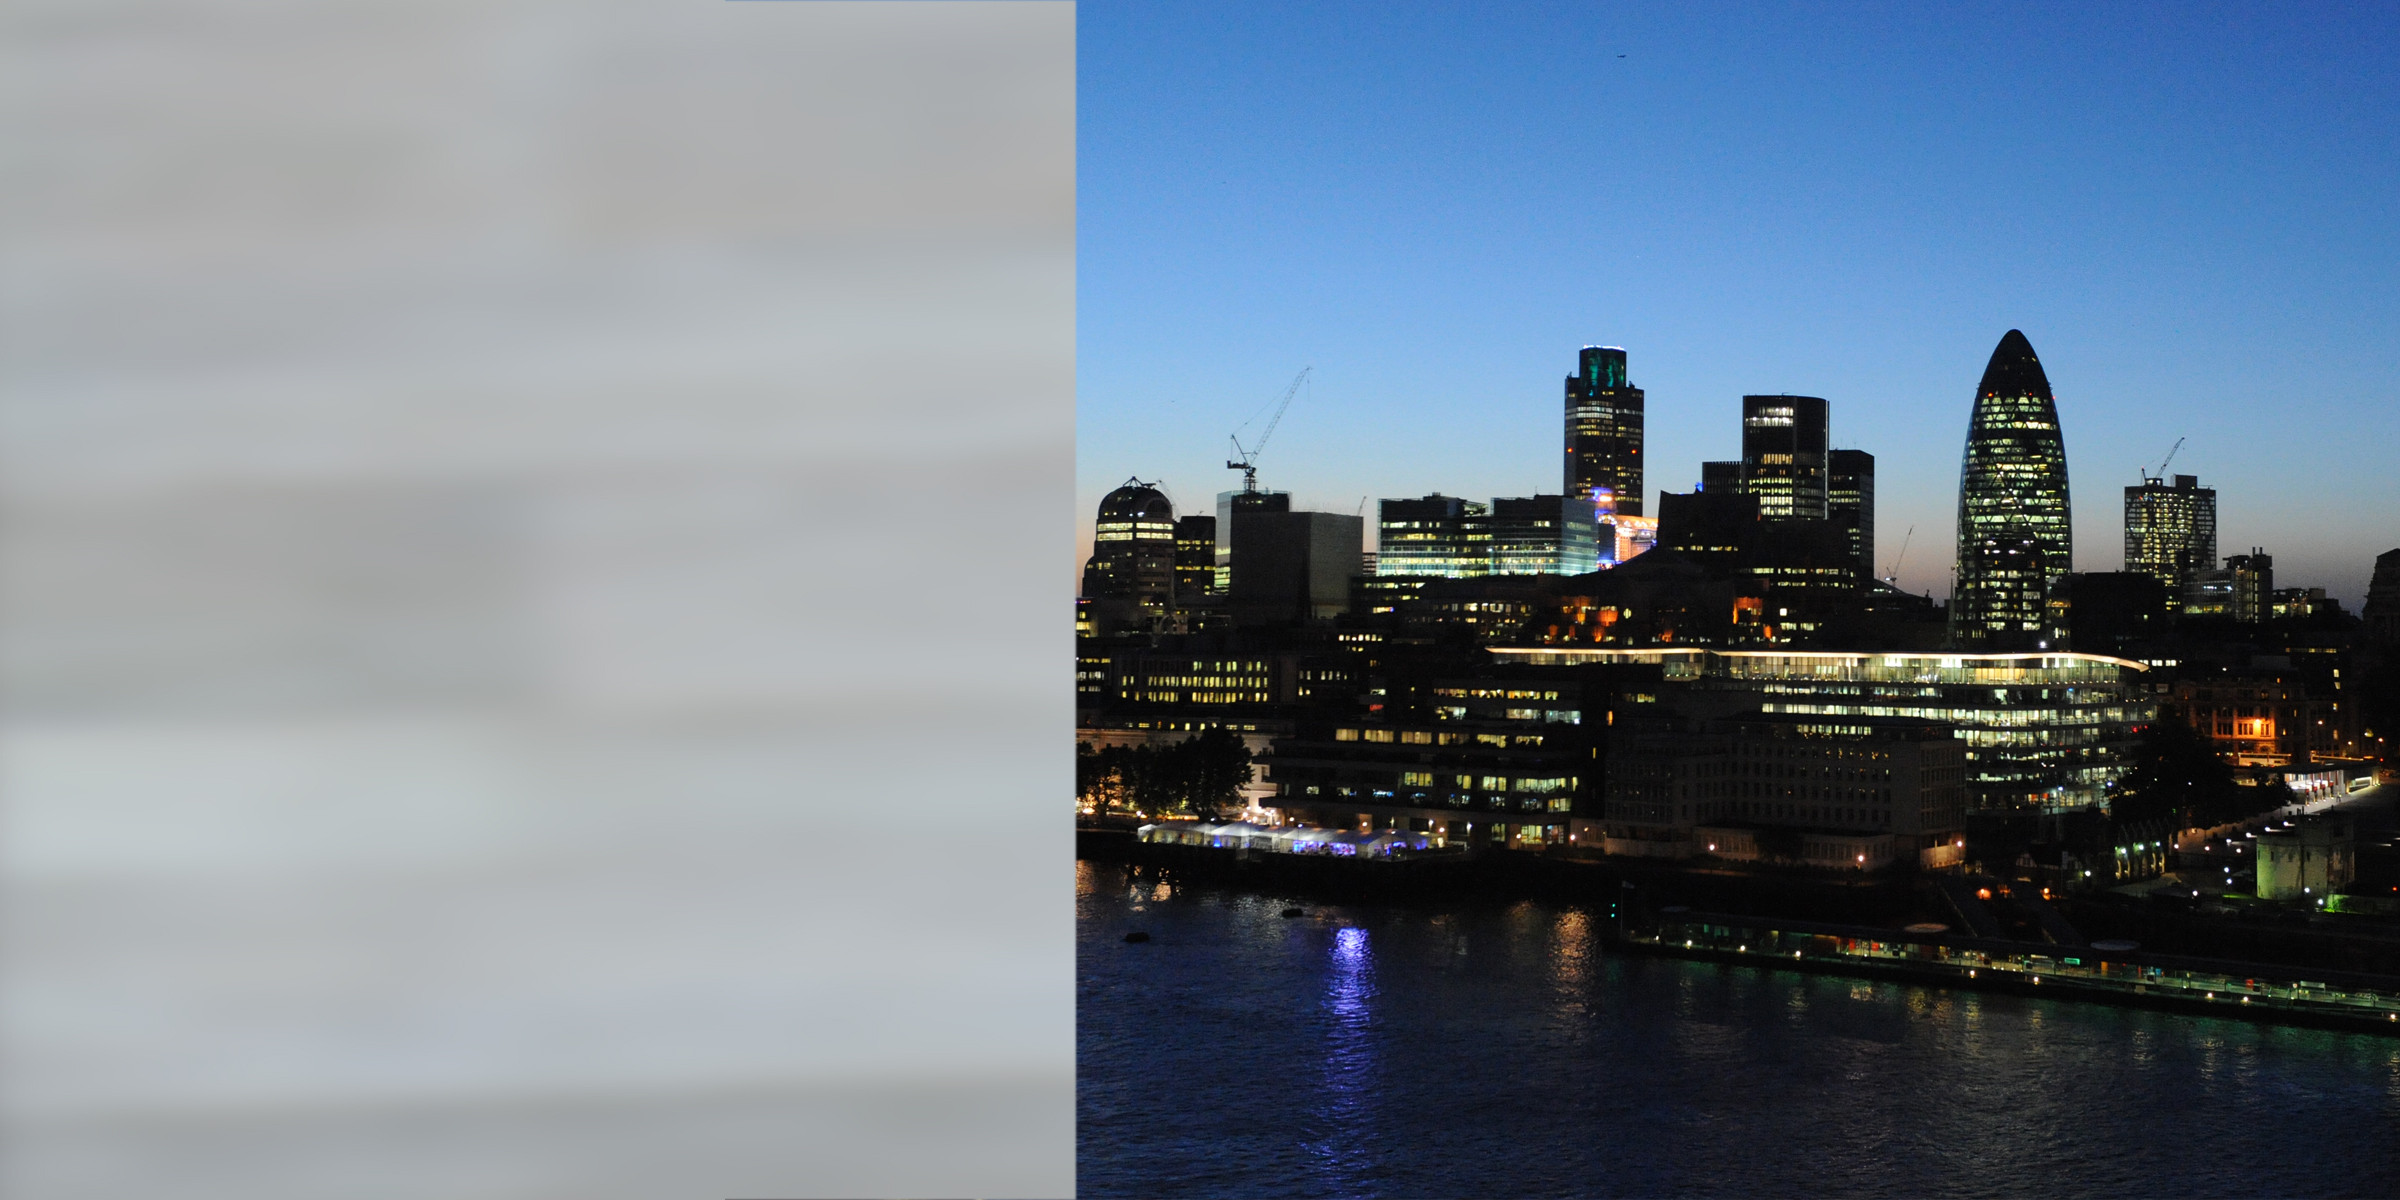
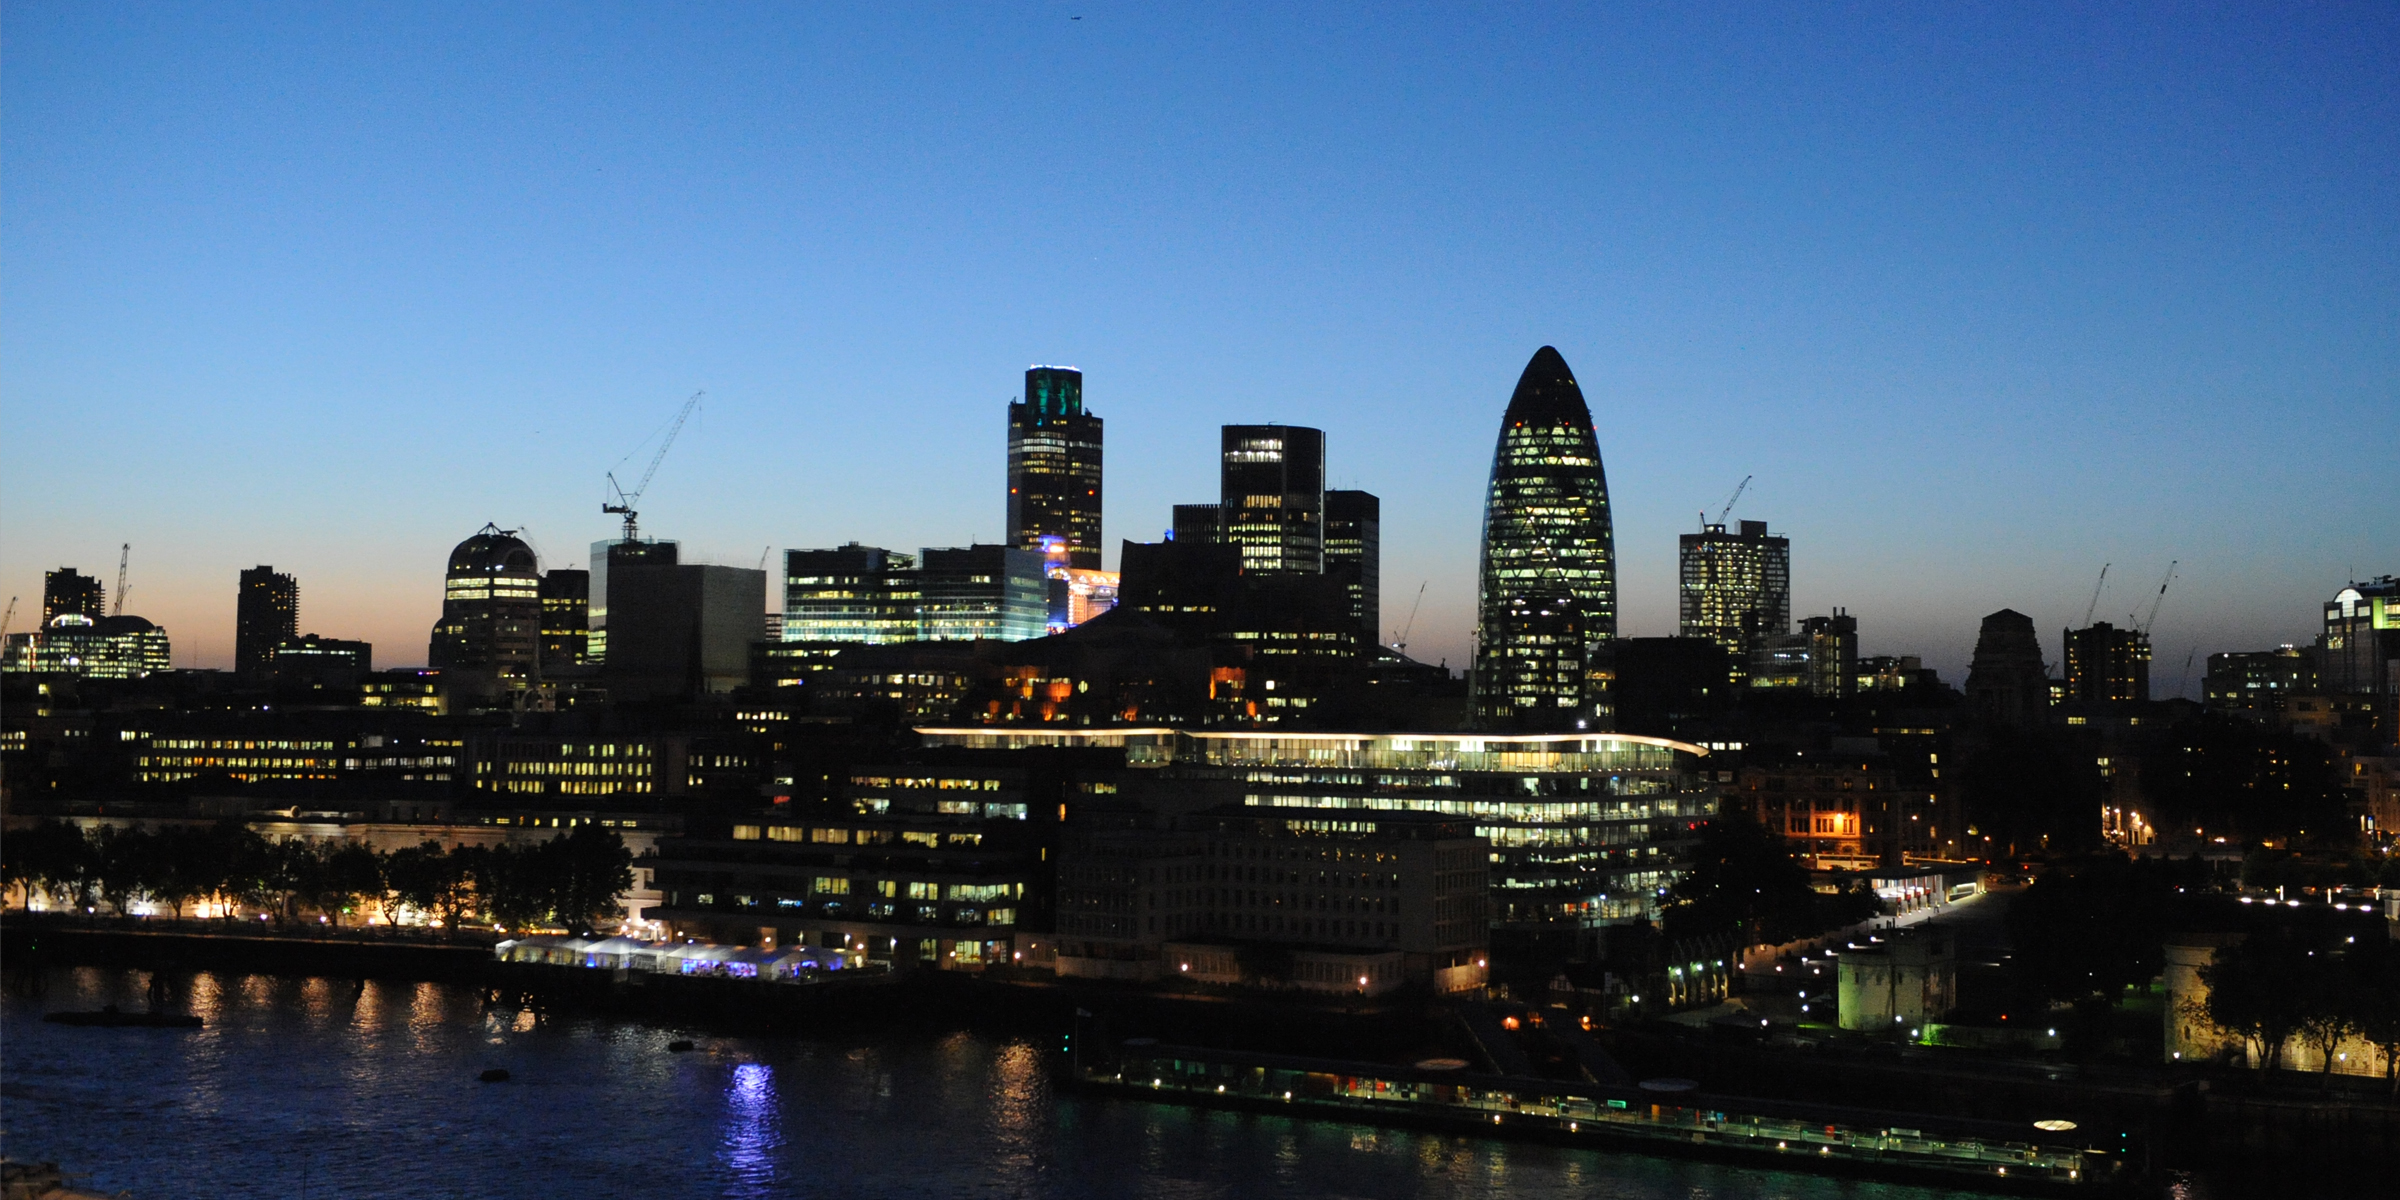
commit 22

diff --git a/src/components/Hero.jsx b/src/components/Hero.jsx
@@ -88,6 +88,10 @@ const Hero = () => {
             <p class="mb-8">
               Brug topmenuen for at navigere rundt på websiden.
             </p>
+
+            <p class="mb-8">
+              For akut assistance, kontakt os via 'Om' siden.
+            </p>
           </div>
         </div>
       </Container>